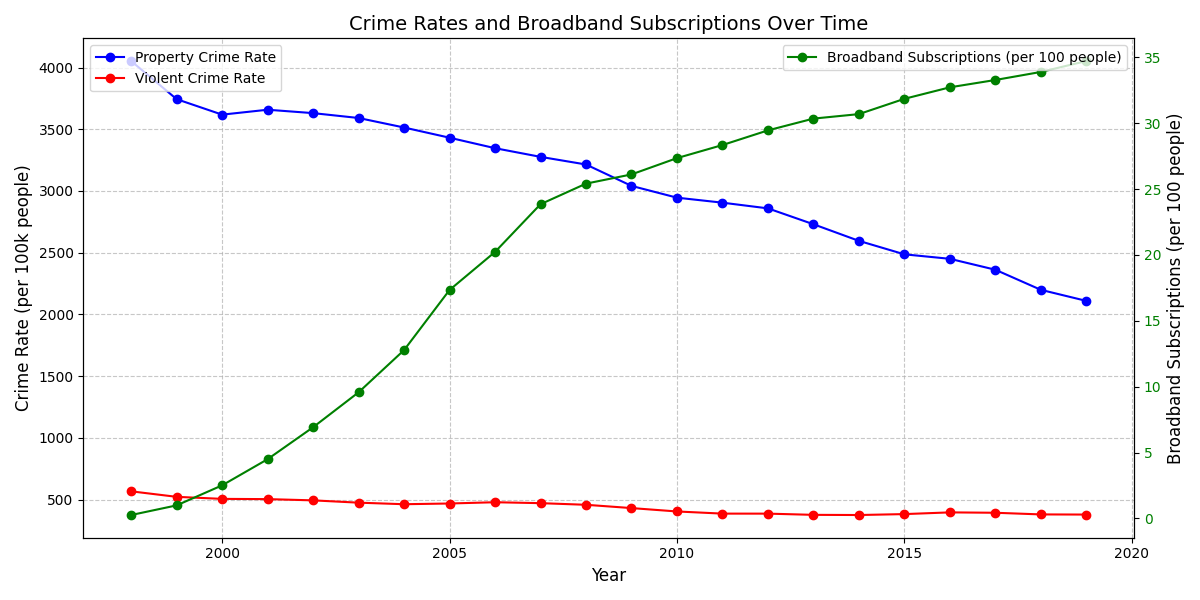
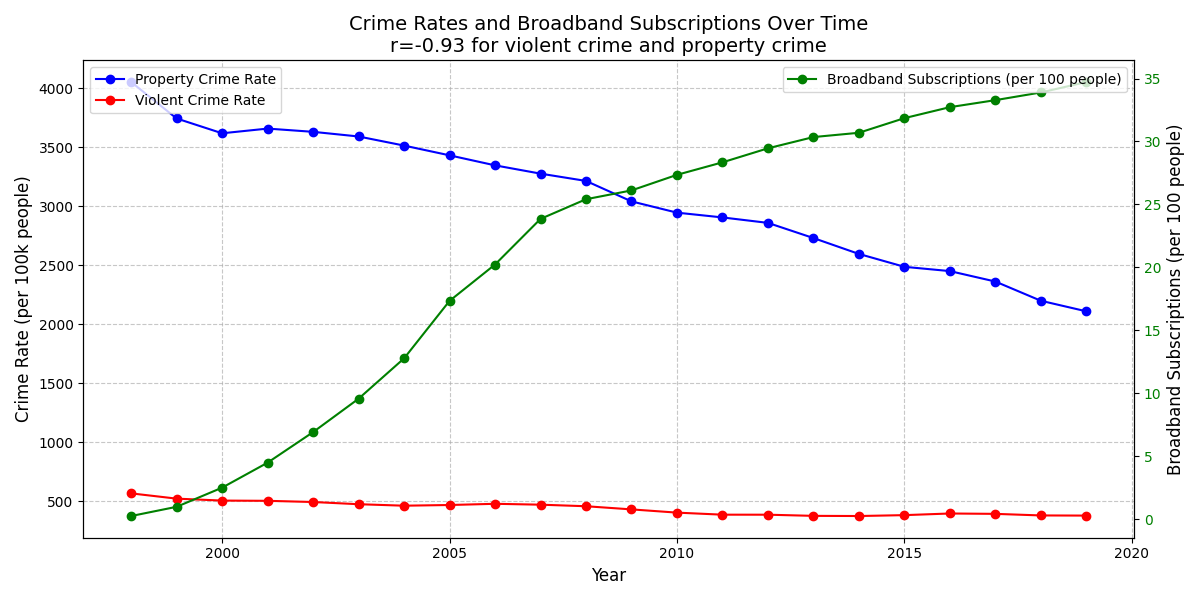
sytling

diff --git a/df2.py b/df2.py
@@ -43,10 +43,33 @@ plt.show()
 dataplot = sn.heatmap(corr, cmap="YlGnBu", annot=True)
 plt.show()
 
-corr2 = merged[['Data.Rates.Violent.All', 'Data.Rates.Property.All', 'Election_Year']].corr()
-print(corr2)
-dataplot = sn.heatmap(corr2, cmap="YlGnBu", annot=True)
+import seaborn as sn
+import matplotlib.pyplot as plt
+
+# Calculate correlation matrix
+corr2 = merged[['Data.Rates.Violent.All', 'Data.Rates.Property.All', 'Election_Year', 'Winning_Party']].corr()
+
+# Create heatmap
+plt.figure(figsize=(8, 6))  # Adjust figure size as needed
+dataplot = sn.heatmap(
+    corr2,
+    cmap="YlGnBu",
+    annot=True,
+    fmt=".2f",
+    cbar=False,
+    xticklabels=corr2.columns,
+    yticklabels=corr2.columns
+)
+
+# Rotate axis labels for better visibility
+plt.xticks(rotation=45, ha="right", fontsize=10)
+plt.yticks(fontsize=10)
+
+# Display the plot
+plt.title("Correlation Heatmap", fontsize=14)
+plt.tight_layout()
 plt.show()
+
 
 plt.figure(figsize=(10, 6))
 

diff --git a/df.py b/df.py
@@ -33,7 +33,7 @@ ax2.tick_params(axis="y", labelcolor="green")
 ax2.legend(loc="upper right")
 
 # Add title and grid
-plt.title("Crime Rates and Broadband Subscriptions Over Time", fontsize=14)
+plt.title("Crime Rates and Broadband Subscriptions Over Time\nr=-0.93 for violent crime and property crime", fontsize=14)
 ax1.grid(True, linestyle="--", alpha=0.7)
 
 # Show the plot

diff --git a/df3.py b/df3.py
@@ -32,7 +32,7 @@ ax2.tick_params(axis="y", labelcolor="green")
 ax2.legend(loc="upper right")
 
 # Add title and grid
-plt.title("US Crime Rates and NA Games Sales Over Time", fontsize=14)
+plt.title("US Crime Rates and NA Games Sales Over Time\nr=-0.84 for violent crime\nr=-0.74 for property crime", fontsize=14)
 ax1.grid(True, linestyle="--", alpha=0.7)
 
 plt.show()
